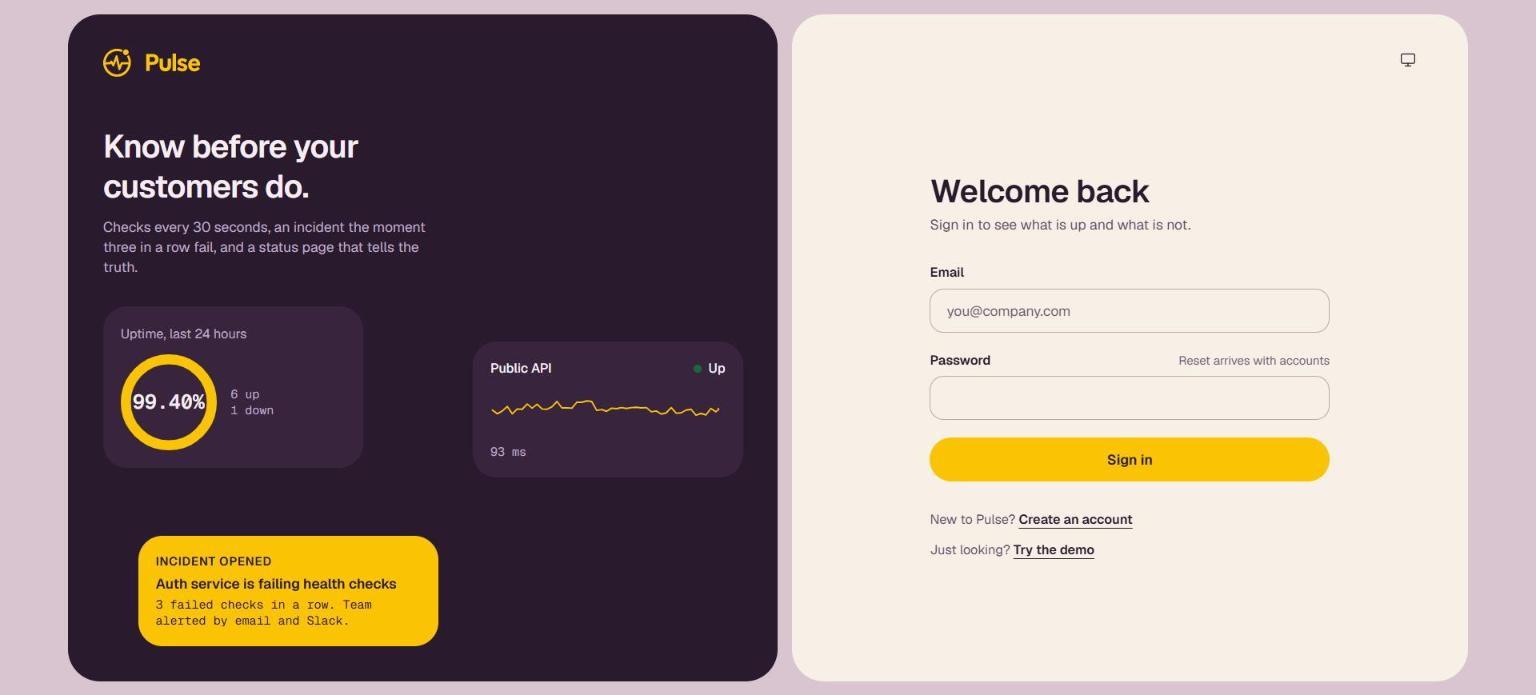
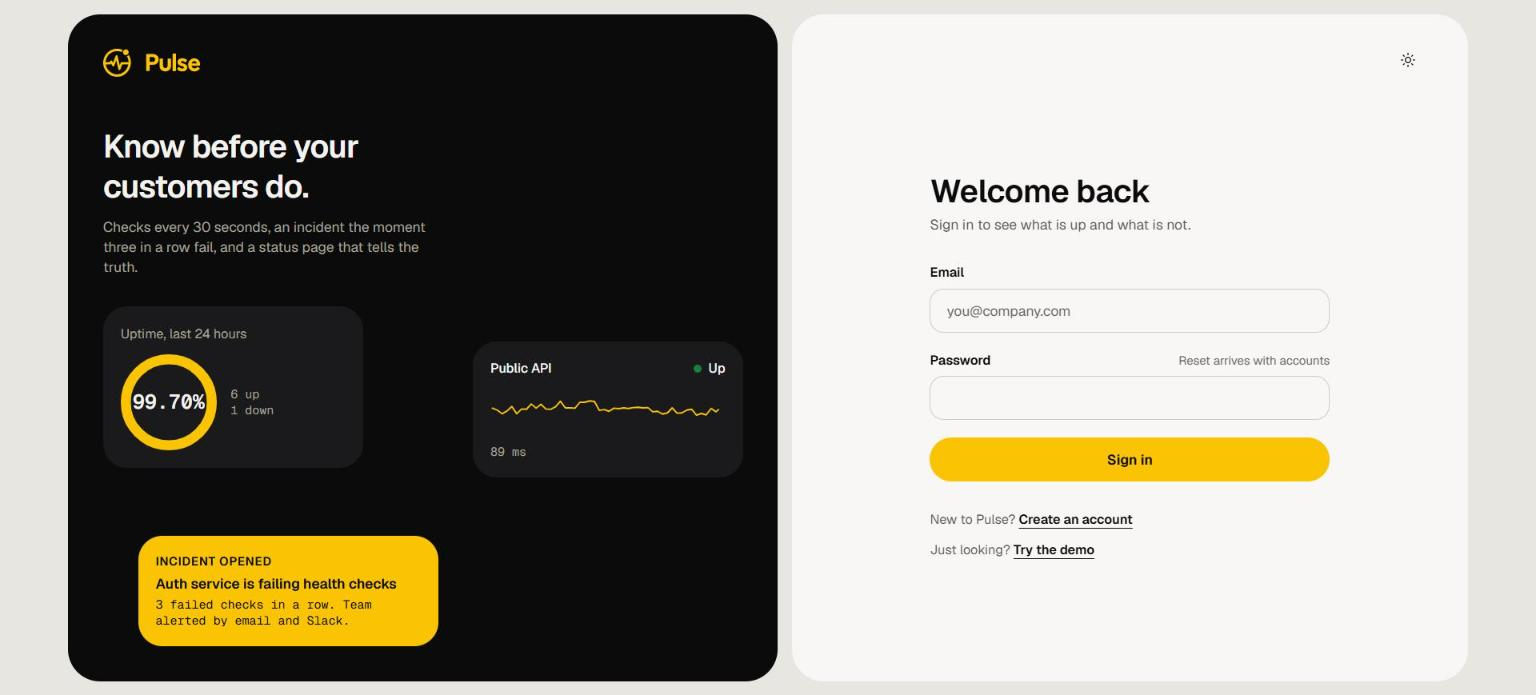
docs: record the palette and landing page direction and refresh the screenshots

diff --git a/docs/decisions.md b/docs/decisions.md
@@ -82,16 +82,22 @@ Commits follow the owner's COCO--PORTFOLIO history: `type: lowercase description
 ## Design refresh (before M1)
 
 ### Visual direction
-The owner asked for a more striking design after seeing M0: a pastel dashboard reference (mauve canvas,
-cream rounded shell, aubergine sidebar, plum right rail with donut gauges) and a cinematic, scroll-driven
-marketing page in the spirit of checky-mg.vercel.app. This deliberately departs from the brief's quieter
-"no decoration" guidance, at the owner's request. What still holds from the brief: status is never shown by
-color alone, motion respects `prefers-reduced-motion`, and every
-chart has a text equivalent.
+The owner asked for a more striking design after seeing M0 and sent a pastel dashboard as a reference. What is
+taken from it is the layout only: a floating sidebar, a large rounded shell, stat tiles, and a right-hand rail of
+ring gauges. The colors stay the original Pulse palette (warm off-white, white cards, near-black ink, brand
+yellow `#fac303`), at the owner's instruction. A first attempt copied the reference's mauve palette and borrowed
+a cinematic scroll tunnel from another site; the owner rejected both, so the palette is back to the original and
+the tunnel, scroll ruler and giant uppercase type are gone. What still holds from the brief: status is never shown
+by color alone, motion respects `prefers-reduced-motion`, and every chart has a text equivalent.
 
 ### Palette and tokens
-Canvas `#d9c5d0`, cream shell `#f6f0e7`, aubergine panel `#2a1a2e`, plum `#8a6786`, brand yellow `#fac303`
-(sampled from the logo). All of them are CSS variables with a dark override, so components never hold a hex.
+Light: canvas `#e8e6e0`, shell `#f8f7f5`, cards `#ffffff`, ink `#0b0b0c`. The sidebar and the gauge rail are near-black in
+both themes so the yellow logo always has contrast. Everything is a CSS variable with a dark override, so
+components never hold a hex.
+
+### Landing page
+A calm page in the app's own language: a floating black header, a hero with a live product preview built from the
+real chart components, four feature cards, the live public status page embedded, and a closing call to action.
 
 ### Charts
 Charts are hand-written SVG with the geometry in `lib/chart.ts` so it can be unit-tested: ring gauge,
@@ -111,7 +117,3 @@ should not touch any page. Pause, resume and acknowledge are optimistic, as they
 ### Accounts are not open yet
 The sign in and sign up forms validate inline, but submitting shows "Accounts are not open yet" with a link
 to the demo workspace. Faking a successful login would mislead; real accounts arrive in M1.
-
-### Tooling
-`web/src/lib/tunnel.ts` keeps the landing tunnel's maths pure; the component only writes transforms to the
-DOM from `requestAnimationFrame`. With reduced motion the tunnel is replaced by a static layout.

diff --git a/CHANGELOG.md b/CHANGELOG.md
@@ -12,11 +12,11 @@ Design refresh.
 - Public status page with a banner, grouped components, 90-day uptime bars, incident timelines, a response-time graph and an email subscribe form.
 - Monitor detail page with uptime figures and a response-time chart.
 - Sign in and sign up pages with inline validation.
-- Cinematic landing page with a scroll-driven card tunnel and the live status page embedded.
+- Landing page with a live product preview, feature cards and the live status page embedded.
 - A seeded demo workspace behind query hooks, so the UI works before the API exists.
 
 ### Changed
-- Restyled the app around a mauve canvas, cream shell, aubergine sidebar and pill controls.
+- Restyled the app as a floating sidebar, rounded shell and ring-gauge rail, in the original yellow palette, with pill controls.
 
 ## [0.1.0] - 2026-11-08
 
